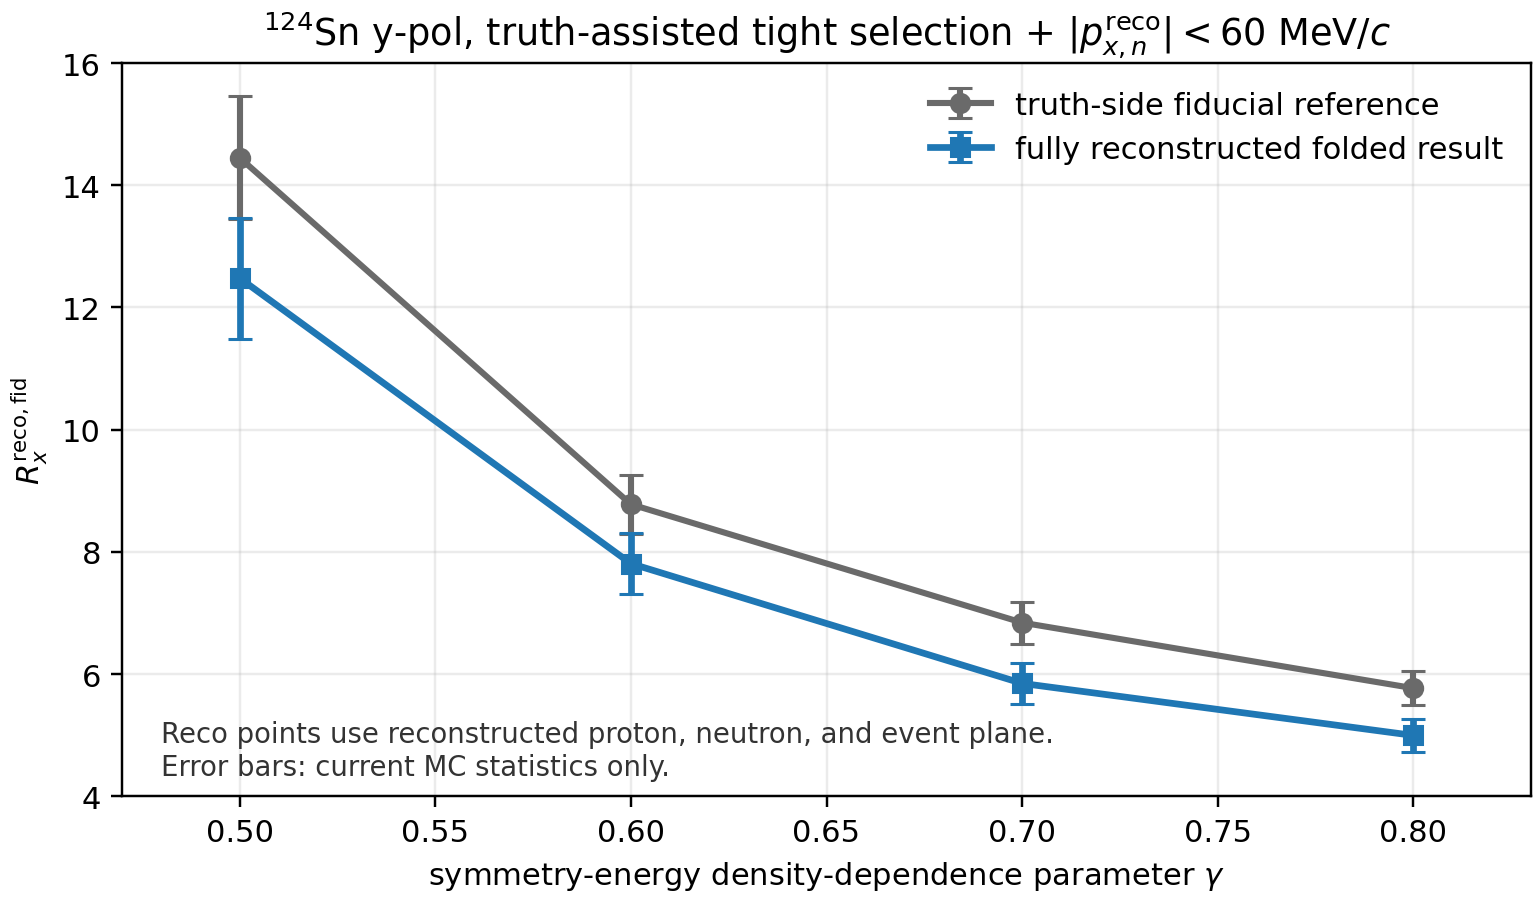
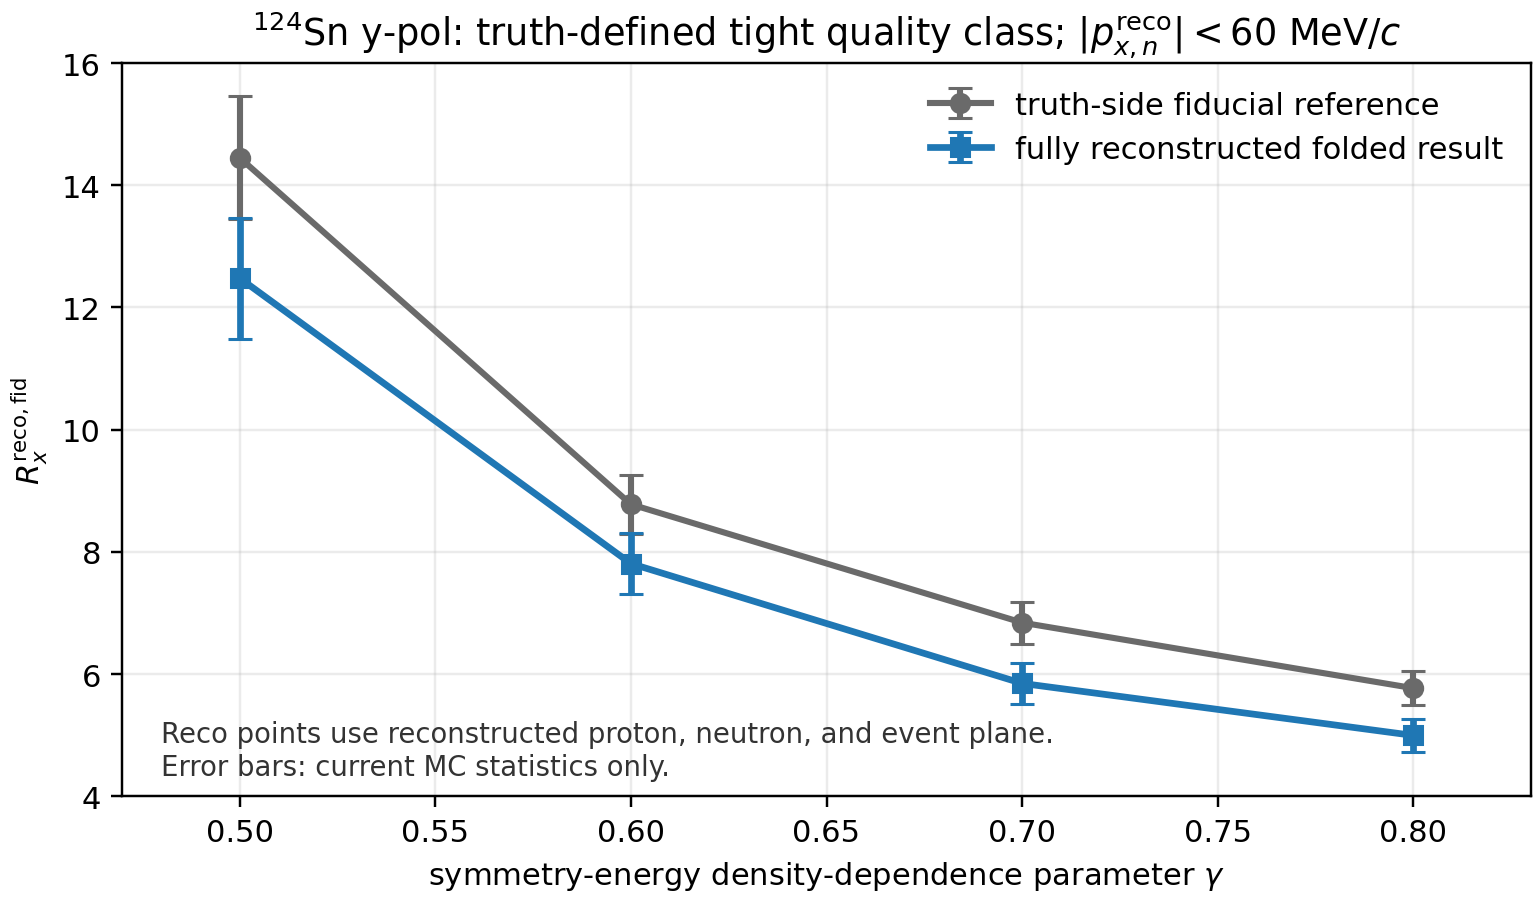
clarify reco px60 selection in workshop

Changed region(s): [[0.1558, 0.0, 0.9039, 0.0622]]

diff --git a/docs/reports/samurai_workshop2026/samuraiworkshop2026.tex b/docs/reports/samurai_workshop2026/samuraiworkshop2026.tex
@@ -98,8 +98,8 @@
     \end{column}
   \end{columns}
   \begin{block}{Scope}
-    The observable is fully reconstructed, while the present event-quality
-    selection is still truth-assisted.
+    The observable and px60 fiducial are reconstructed; the present
+    loose/mid/tight event-quality class is still defined with truth momenta.
   \end{block}
   \centering
   \footnotesize
@@ -261,12 +261,12 @@
   \begin{columns}[T,onlytextwidth]
     \begin{column}{0.50\textwidth}
       \begin{block}{Current closure}
-        reco observable + truth-assisted quality cut
+        reco observable + reco px60 + truth-defined quality class
       \end{block}
     \end{column}
     \begin{column}{0.50\textwidth}
       \begin{block}{Final experimental analysis}
-        reco observable + reco-only quality cut
+        reco observable + reco px60 + reco-defined quality class
       \end{block}
     \end{column}
   \end{columns}
@@ -326,7 +326,7 @@
 
   \vspace{0.05cm}
   \scriptsize
-  Current closure selection: truth-assisted tight event-quality cut +
+  Current closure selection: truth-defined tight event-quality class +
   reconstructed px60 fiducial.
 
   \begin{block}{Takeaway}
@@ -354,8 +354,9 @@
       \end{itemize}
       \begin{block}{Scope}
         \scriptsize
-        Same reconstructed observable and truth-assisted tight selection;
-        Sn112 planning rates still use an atom-density scaling placeholder.
+        Reconstructed observable and reconstructed px60 fiducial; tight
+        event-quality class is still truth-defined. Sn112 planning rates use an
+        atom-density scaling placeholder.
       \end{block}
     \end{column}
   \end{columns}
@@ -385,7 +386,7 @@
   \begin{block}{Systematic priorities}
     neutron efficiency; threshold and time-of-flight $T_0$; cross-talk and fake
     neutrons; backgrounds; $p_{yy}$ polarization; detector alignment; model
-    dependence; reco-only selection migration.
+    dependence; reconstructed quality-class migration.
   \end{block}
 \end{frame}
 
@@ -405,8 +406,8 @@
     \begin{column}{0.50\textwidth}
       \begin{block}{Still required}
         \begin{itemize}
-          \item reco-only event-quality cuts,
-          \item reco-only Sn112/Sn124 isotope closure,
+          \item reco-defined event-quality classes,
+          \item reco-defined Sn112/Sn124 isotope closure,
           \item Sn112 target-specific rate validation,
           \item selection efficiency, purity, and migration,
           \item polarization and detector-systematic pseudo-data tests.
@@ -417,7 +418,7 @@
   \centering
   \footnotesize
   The next decisive analysis is not another truth-level calculation. It is a
-  fully reco-only isotope closure test.
+  closure test with reconstructed quality-class definitions.
 \end{frame}
 
 \begin{frame}{Summary}
@@ -431,8 +432,8 @@
       full proton, neutron, and event-plane reconstruction in the px60 fiducial
       region for $^{124}$Sn.
     \item The experiment should compare reconstructed data with identically
-      folded model predictions; the next step is reco-only isotope closure and
-      detector-systematic validation.
+      folded model predictions; the next step is closure with reconstructed
+      quality classes and detector-systematic validation.
   \end{enumerate}
   \begin{block}{Bottom line}
     The present study establishes detector-level observability, not yet a
@@ -510,8 +511,9 @@
       regularization.
   \end{itemize}
   \begin{block}{Current limitation}
-    The event-quality cut is still truth-assisted; the neutron px60 fiducial and
-    the observable numerator/denominator are reconstructed.
+    The observable numerator/denominator and neutron px60 fiducial are
+    reconstructed. The loose/mid/tight event-quality class is still defined with
+    truth momenta in the current closure.
   \end{block}
 \end{frame}
 
@@ -789,14 +791,14 @@
       geometry/backend & SAMURAI + NEBULA Plus, PDC NN proton, neutron time-of-flight \\
       y-pol $\gpar$ grid & 0.5, 0.6, 0.7, 0.8 for both targets \\
       observable & folded reco-plane $R_x^{\mathrm{reco,fid}}$ for both targets \\
-      selection & truth-assisted tight quality cut + reco px60 fiducial \\
-      remaining caveat & reco-only selection and Sn112 target-specific rate still pending \\
+      selection & truth-defined tight quality class + reco px60 fiducial \\
+      remaining caveat & reco-defined quality class and Sn112 target-specific rate still pending \\
       \bottomrule
     \end{tabular}
   \end{table}
   \begin{block}{Decision}
     A direct y-pol folded-reco isotope plot is now appropriate, with the
-    truth-assisted selection and planning-rate caveats shown explicitly.
+    truth-defined quality-class and planning-rate caveats shown explicitly.
   \end{block}
 \end{frame}
 
@@ -856,8 +858,8 @@
     \end{column}
   \end{columns}
   \vspace{0.12cm}
-  These current event-quality cuts are truth-assisted and must be migrated to
-  reco-only cuts.
+  These current event-quality classes are defined with truth momenta and must be
+  replaced by reconstructed definitions.
 \end{frame}
 
 \begin{frame}{Backup G: y-pol Polarization Monitoring}
@@ -903,12 +905,13 @@
     reconstructed neutron momentum, and reconstructed event plane.
   \end{block}
   \begin{block}{What still uses truth}
-    Event-quality cuts such as transverse balance and near-backscatter
-    selection are currently defined using truth momenta in simulation.
+    Event-quality classes such as transverse balance and near-backscatter
+    selection are currently defined using truth momenta in simulation. The
+    px60 fiducial used for the folded observable is already reconstructed.
   \end{block}
   \begin{block}{Required closure}
-    Re-run with reco-only cuts and compare efficiency, purity, migration, and
-    $\gpar$ ordering against the truth-assisted baseline.
+    Re-run with reconstructed quality-class definitions and compare efficiency,
+    purity, migration, and $\gpar$ ordering against the truth-defined baseline.
   \end{block}
 \end{frame}
 

diff --git a/docs/reports/samurai_workshop2026/make_summary_figures.py b/docs/reports/samurai_workshop2026/make_summary_figures.py
@@ -65,7 +65,7 @@ def make_main_y_pol(rows: list[dict[str, str]]) -> None:
     ax.set_xlabel(r"symmetry-energy density-dependence parameter $\gamma$")
     ax.set_ylabel(r"$R_x^{\mathrm{reco,fid}}$")
     ax.set_title(
-        r"$^{124}$Sn y-pol, truth-assisted tight selection + "
+        r"$^{124}$Sn y-pol: truth-defined tight quality class; "
         r"$|p_{x,n}^{\mathrm{reco}}|<60$ MeV/$c$"
     )
     ax.grid(True, alpha=0.25)
@@ -110,7 +110,7 @@ def make_isotope_y_pol(rows: list[dict[str, str]]) -> None:
     ax.set_xlabel(r"symmetry-energy density-dependence parameter $\gamma$")
     ax.set_ylabel(r"$R_x^{\mathrm{reco,fid}}$")
     ax.set_title(
-        r"y-pol isotope comparison, truth-assisted tight selection + "
+        r"y-pol isotope comparison: truth-defined tight quality class; "
         r"$|p_{x,n}^{\mathrm{reco}}|<60$ MeV/$c$"
     )
     ax.grid(True, alpha=0.25)

diff --git a/docs/reports/samurai_workshop2026/speaker_notes.md b/docs/reports/samurai_workshop2026/speaker_notes.md
@@ -22,9 +22,10 @@ proton, neutron, and event-plane reconstruction.  The two targets have distinct
 roles: 112Sn is the isotope reference, while 124Sn is the primary neutron-rich
 sensitivity target.
 
-Stress the scope: the observable is reconstructed, but the current event-quality
-selection is still truth-assisted.  This is a detector-level closure study, not
-a complete experimental uncertainty analysis.
+Stress the scope: the observable and px60 fiducial are reconstructed, but the
+current loose/mid/tight event-quality class is still defined with truth
+momenta.  This is a detector-level closure study, not a complete experimental
+uncertainty analysis.
 
 ## Page 3 -- Physical Picture: Isovector Reorientation
 
@@ -106,10 +107,10 @@ gamma ordering remains.
 
 This is the main result.
 
-Point out the label: current closure selection means truth-assisted tight
-event-quality cut plus reconstructed px60 fiducial.  The plotted reconstructed
-points use reconstructed proton momentum, reconstructed neutron momentum, and
-the reconstructed event plane.
+Point out the label: current closure selection means a truth-defined tight
+event-quality class plus reconstructed px60 fiducial.  The plotted
+reconstructed points use reconstructed proton momentum, reconstructed neutron
+momentum, and the reconstructed event plane.
 
 The 124Sn folded observable keeps a monotonic gamma ordering.  Error bars are
 current Monte Carlo statistics only.  Do not call this an experimental
@@ -127,9 +128,9 @@ Read the plot qualitatively: both isotopes retain a visible y-pol gamma ordering
 after folding and full momentum reconstruction.  The Sn112 high-gamma interval
 is much narrower, so it is more sensitive to detector and model systematics.
 
-Keep the caveat visible: this is still a truth-assisted tight event-quality
-selection, and Sn112 planning rates currently use an atom-density scaling
-placeholder.
+Keep the caveat visible: the observable and px60 fiducial are reconstructed,
+but the tight event-quality class is still truth-defined.  Sn112 planning rates
+currently use an atom-density scaling placeholder.
 
 ## Page 12 -- Statistical Scale versus Experimental Systematics
 
@@ -142,7 +143,8 @@ usable y-pol events.
 
 The important message is that statistics are unlikely to be the dominant
 limitation.  Detector response, neutron efficiency, polarization, backgrounds,
-model dependence, and reco-only selection migration are the real priorities.
+model dependence, and reconstructed quality-class migration are the real
+priorities.
 
 ## Page 13 -- Current Status and Next Closure Step
 
@@ -153,9 +155,9 @@ survives detector folding; Sn112 now provides a same-current-chain isotope
 reference; px60 provides a controlled fiducial region; folded model comparison
 is the right strategy.
 
-Still required: reco-only cuts, efficiency and purity studies, Sn112
-target-specific rate validation, polarization uncertainty propagation, and
-detector-systematic pseudo-data tests.
+Still required: reconstructed event-quality classes, efficiency and purity
+studies, Sn112 target-specific rate validation, polarization uncertainty
+propagation, and detector-systematic pseudo-data tests.
 
 ## Page 14 -- Summary
 
@@ -244,6 +246,7 @@ complex, not impossible.
 
 ## Pages 39--40 -- Backup H: Systematics and Future Closure
 
-These are the final caveat slides.  Current event-quality cuts are
-truth-assisted.  The decisive next analysis is a reco-only closure test with
-detector and model variations.
+These are the final caveat slides.  Current event-quality classes are
+truth-defined, while the observable and px60 fiducial are already reconstructed.
+The decisive next analysis is a closure test with reconstructed quality-class
+definitions and detector/model variations.

diff --git a/docs/reports/samurai_workshop2026/sn112_consistency_audit.md b/docs/reports/samurai_workshop2026/sn112_consistency_audit.md
@@ -33,7 +33,7 @@ constraint report.
 | gamma grid | 0.5, 0.6, 0.7, 0.8 for both targets |
 | stage | truth and `reco_plane` exported |
 | main observable | folded reco-plane `R_x^{reco,fid}` |
-| selection | truth-assisted tight event-quality selection + reco `|p_x,n^reco| < 60 MeV/c` |
+| selection | truth-defined tight event-quality class + reco `|p_x,n^reco| < 60 MeV/c` fiducial |
 | uncertainty shown | current MC statistics; optional 16 h planning-stat projection |
 
 ## y-pol Folded Reco Values
@@ -61,8 +61,9 @@ main talk, provided the scope is stated clearly:
 
 ## Remaining Caveats
 
-- The event-quality selection is still truth-assisted.
-- A reco-only isotope closure test is still required.
+- The loose/mid/tight event-quality classes are still defined with truth
+  momenta.
+- A closure test with reconstructed event-quality classes is still required.
 - Sn112 beamtime/statistics estimates currently use an atom-density scaling
   placeholder rather than a target-specific breakup cross-section extraction.
 - Detector and model systematic variations are still not included in the